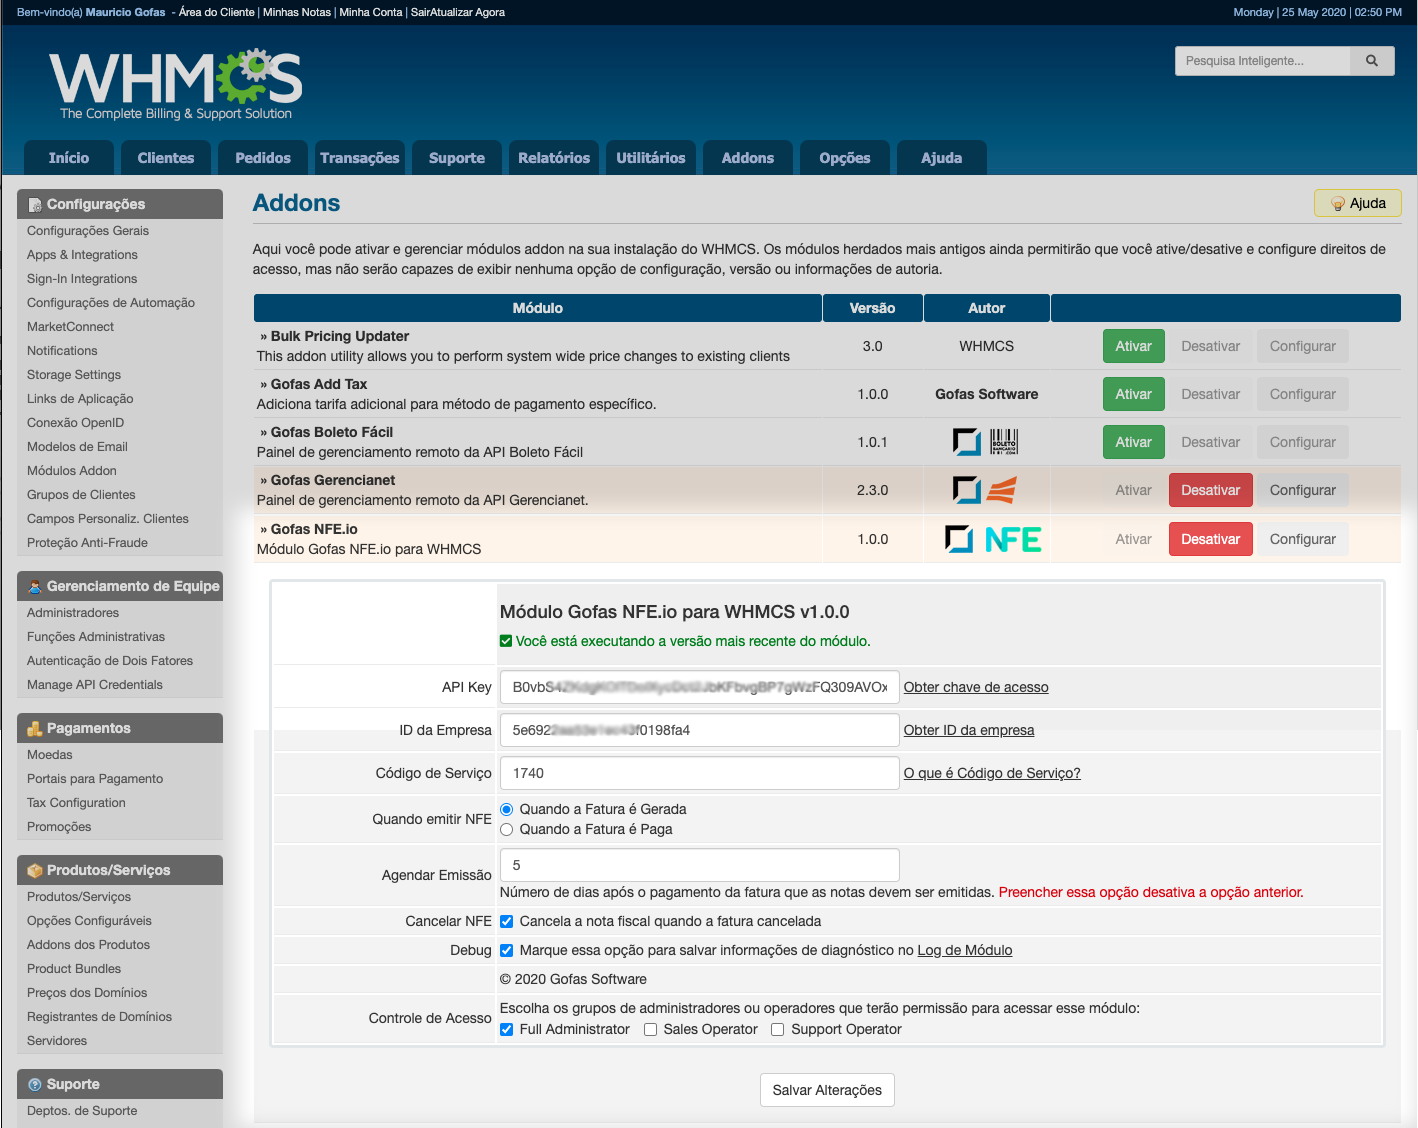
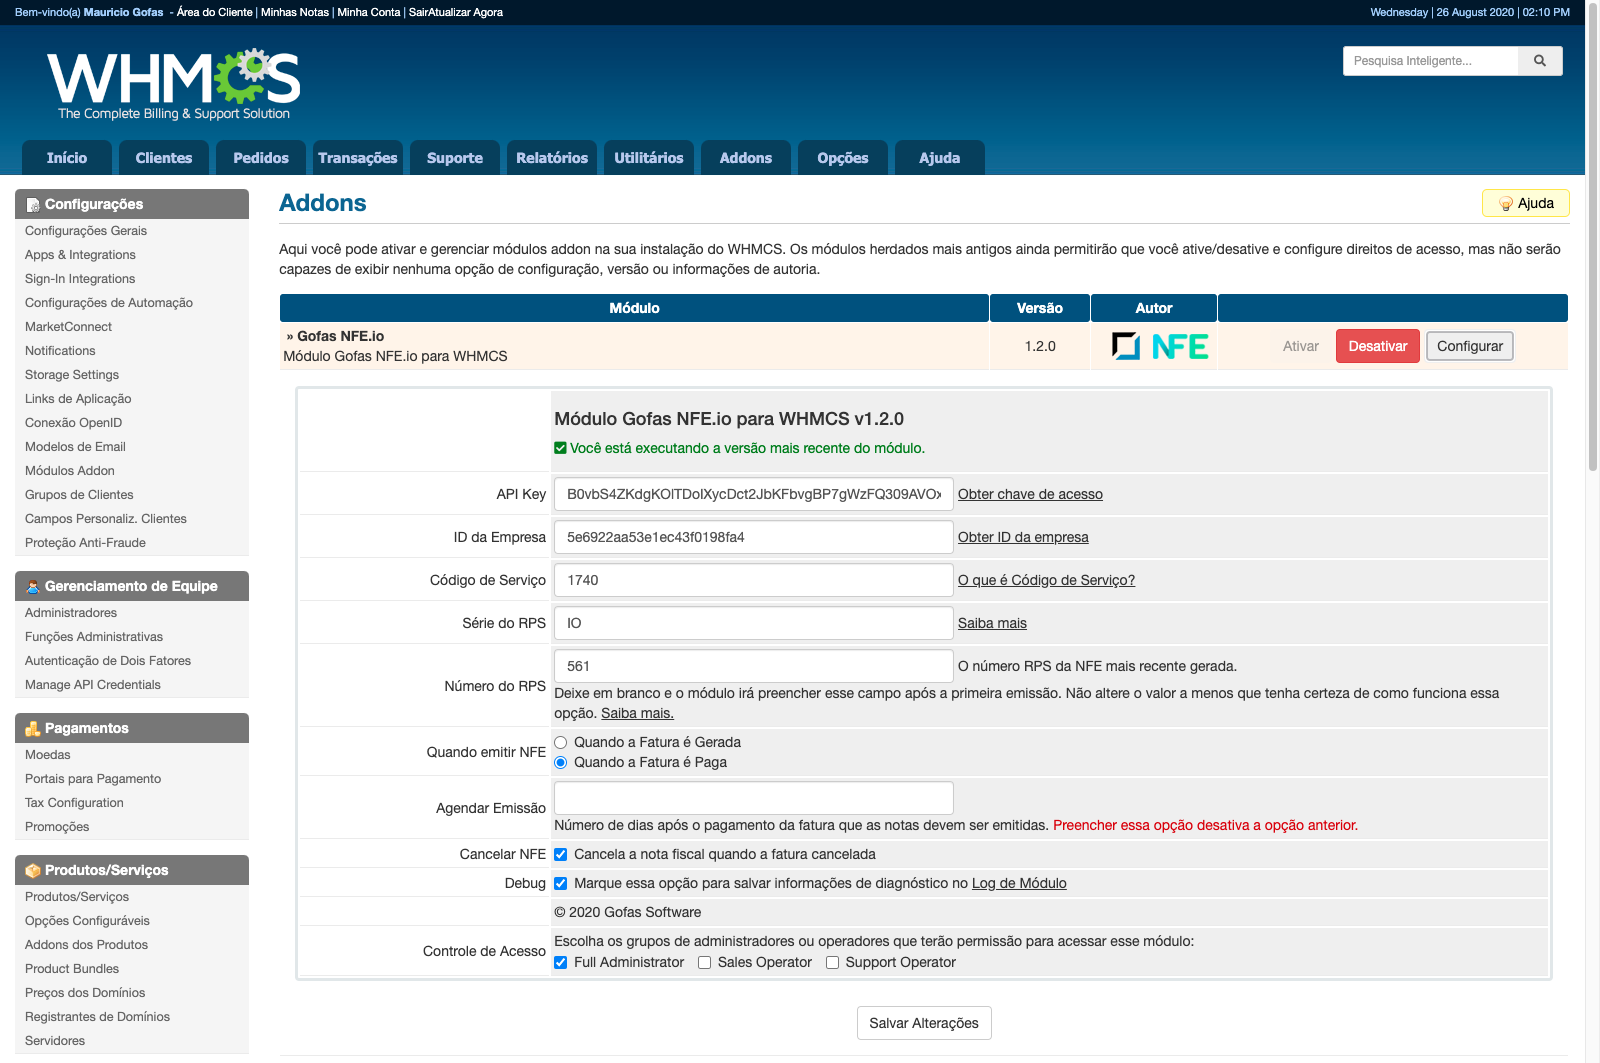
v1.2.0
Atualização v1.1.3 > v1.2.0.

diff --git a/modules/addons/gofasnfeio/config.php b/modules/addons/gofasnfeio/config.php
@@ -6,13 +6,13 @@
  * @copyright	2020 https://gofas.net
  * @license		https://gofas.net?p=
  * @support		https://gofas.net/?p=12313
- * @version		1.1.3
+ * @version		1.2.0
  */
 if (!defined("WHMCS")){die();}
 use WHMCS\Database\Capsule;
 if( !function_exists('gofasnfeio_config') ) {
 function gofasnfeio_config() {
-	$module_version = '1.1.3';
+	$module_version = '1.2.0';
 	$module_version_int = (int)preg_replace('/[^0-9]/', '', $module_version);
 	
 	// Get Config
@@ -137,7 +137,7 @@ function gofasnfeio_config() {
 				}
 			}
 			
-			// Added in v1dot1dot3 
+			// Added in v 1 dot 1 dot 3 
 			if(!Capsule::schema()->hasColumn('gofasnfeio', 'rpsNumber')){
 				try {
  					Capsule::schema()->table('gofasnfeio', function($table){$table->string('rpsNumber');});
@@ -176,13 +176,24 @@ function gofasnfeio_config() {
 				'Type' => 'text',
 				'Description' => '<a style="text-decoration:underline;" href="https://nfe.io/docs/nota-fiscal-servico/conceitos-nfs-e/#o-que-e-codigo-de-servico" target="_blank">O que é Código de Serviço?</a>',
 	));
+	$rps_serial_number = array('rps_serial_number' => array(
+				'FriendlyName' => 'Série do RPS',
+				'Type' => 'text',
+				'Default' => 'IO',
+				'Description' => '<a style="text-decoration:underline;" href="https://nfe.io/docs/nota-fiscal-servico/conceitos-nfs-e/" target="_blank">Saiba mais</a>',
+	));
+	$rps_number = array('rps_number' => array(
+				'FriendlyName' => 'Número do RPS',
+				'Type' => 'text',
+				'Default' => 'zero',
+				'Description' => 'O número RPS da NFE mais recente gerada.<br>Deixe em branco e o módulo irá preencher esse campo após a primeira emissão. Não altere o valor a menos que tenha certeza de como funciona essa opção. <a style="text-decoration:underline;" href="https://nfe.io/docs/nota-fiscal-servico/conceitos-nfs-e/" target="_blank">Saiba mais.</a>',
+	));
 
 	$issue_note = array('issue_note' => array(
 				'FriendlyName' => 'Quando emitir NFE',
 				'Type' => 'radio',
                 'Options' => 'Quando a Fatura é Gerada,Quando a Fatura é Paga',
                 'Default' => 'Quando a Fatura é Paga',
-                //'Description' => 'Escolha o momento em que as nots fiscais serão geradas.',
 	));
 	$issue_note_after = array('issue_note_after' => array(
 				'FriendlyName' => 'Agendar Emissão',
@@ -206,7 +217,7 @@ function gofasnfeio_config() {
 				'FriendlyName' => '',
 				'Description' => '&copy; '.date('Y').' <a target="_blank" title="↗ Gofas Software" href="https://gofas.net">Gofas Software</a>',
 	));
-	$fields = array_merge($intro,$api_key,$company_id,$service_code,$issue_note,$issue_note_after,$cancel_invoice_cancel_nfe,$debug,$footer);
+	$fields = array_merge($intro,$api_key,$company_id,$service_code,$rps_serial_number,$rps_number,$issue_note,$issue_note_after,$cancel_invoice_cancel_nfe,$debug,$footer);
     $configarray = array(
     "name" => "Gofas NFE.io",
     "description" => "Módulo Gofas NFE.io para WHMCS",

diff --git a/modules/addons/gofasnfeio/hooks/aftercronjob.php b/modules/addons/gofasnfeio/hooks/aftercronjob.php
@@ -6,7 +6,7 @@
  * @copyright	2020 https://gofas.net
  * @license		https://gofas.net?p=9340
  * @support		https://gofas.net/?p=12313
- * @version		1.1.3
+ * @version		1.2.0
  */
 if (!defined("WHMCS")){die();}
 use WHMCS\Database\Capsule;
@@ -22,8 +22,28 @@ foreach( Capsule::table('gofasnfeio')->orderBy('id', 'desc')->where('status', '=
 		}
 		$customer = gnfe_customer($invoices->userid,$client);
 		$gnfe_get_nfes = gnfe_get_nfes();
-		$rps_serial_number = $gnfe_get_nfes['serviceInvoices']['0']['rpsSerialNumber'];
-		$rps_number = $gnfe_get_nfes['serviceInvoices']['0']['rpsNumber'];
+		if( $params['rps_serial_number'] ){
+			$rps_serial_number = $params['rps_serial_number'];
+			$rps_serial_number_ = 'IO';
+		}
+		elseif (!$params['rps_serial_number'] and $gnfe_get_nfes['serviceInvoices']['0']['rpsSerialNumber']){
+			$rps_serial_number = $gnfe_get_nfes['serviceInvoices']['0']['rpsSerialNumber'];
+			$rps_serial_number_ = $rps_serial_number;
+		}
+		elseif (!$params['rps_serial_number'] and !$gnfe_get_nfes['serviceInvoices']['0']['rpsSerialNumber']){
+			$rps_serial_number = 'IO';
+			$rps_serial_number_ = $rps_serial_number;
+		}
+		///
+		if($params['rps_number'] and (string)$params['rps_number'] !== (string)'zero'){
+			$rps_number = $params['rps_number'];
+		}
+		elseif((!$params['rps_number'] or (string)$params['rps_number'] === (string)'zero' ) and $gnfe_get_nfes['serviceInvoices']['0']['rpsNumber']){
+			$rps_number = $gnfe_get_nfes['serviceInvoices']['0']['rpsNumber'];
+		}
+		elseif(((string)$params['rps_number'] === (string)'zero' and !$gnfe_get_nfes['serviceInvoices']['0']['rpsNumber']) or (!$params['rps_number'] and !$gnfe_get_nfes['serviceInvoices']['0']['rpsNumber'])){
+			$rps_number = 0;
+		}
 		$postfields = array(
 			'cityServiceCode' => $params['service_code'],
 			'description'     => substr( implode("\n",$line_items),  0, 600),
@@ -53,11 +73,14 @@ foreach( Capsule::table('gofasnfeio')->orderBy('id', 'desc')->where('status', '=
 			if($nfe->message) {
 				$error .= $nfe->message;				
 			}
-				
 			if(!$nfe->message) {
 				$gnfe_update_nfe = gnfe_update_nfe($nfe,$invoices->userid,$invoices->id,'n/a',date("Y-m-d H:i:s"),date("Y-m-d H:i:s"));
 				if($gnfe_update_nfe and $gnfe_update_nfe !== 'success') {
 					$error = $gnfe_update_nfe;
+				}
+				$update_rps = gnfe_update_rps($rps_serial_number_, $rps_number);
+				if($update_rps and $update_rps !== 'success') {
+					$error = $update_rps;
 				}
 			}
 		}

diff --git a/modules/addons/gofasnfeio/callback.php b/modules/addons/gofasnfeio/callback.php
@@ -6,7 +6,7 @@
  * @copyright	2020 https://gofas.net
  * @license		https://gofas.net?p=9340
  * @support		https://gofas.net/?p=12313
- * @version		1.1.3
+ * @version		1.2.0
  */
 require_once __DIR__ . '/../../../init.php';
 use WHMCS\Database\Capsule;
@@ -54,8 +54,28 @@ if($post){
 		}
 		$customer = gnfe_customer($invoices->userid,$client);
 		$gnfe_get_nfes = gnfe_get_nfes();
-		$rps_serial_number = $gnfe_get_nfes['serviceInvoices']['0']['rpsSerialNumber'];
-		$rps_number = $gnfe_get_nfes['serviceInvoices']['0']['rpsNumber'];
+		if( $params['rps_serial_number'] ){
+			$rps_serial_number = $params['rps_serial_number'];
+			$rps_serial_number_ = 'IO';
+		}
+		elseif (!$params['rps_serial_number'] and $gnfe_get_nfes['serviceInvoices']['0']['rpsSerialNumber']){
+			$rps_serial_number = $gnfe_get_nfes['serviceInvoices']['0']['rpsSerialNumber'];
+			$rps_serial_number_ = $rps_serial_number;
+		}
+		elseif (!$params['rps_serial_number'] and !$gnfe_get_nfes['serviceInvoices']['0']['rpsSerialNumber']){
+			$rps_serial_number = 'IO';
+			$rps_serial_number_ = $rps_serial_number;
+		}
+		///
+		if($params['rps_number'] and (string)$params['rps_number'] !== (string)'zero'){
+			$rps_number = $params['rps_number'];
+		}
+		elseif((!$params['rps_number'] or (string)$params['rps_number'] === (string)'zero' ) and $gnfe_get_nfes['serviceInvoices']['0']['rpsNumber']){
+			$rps_number = $gnfe_get_nfes['serviceInvoices']['0']['rpsNumber'];
+		}
+		elseif(((string)$params['rps_number'] === (string)'zero' and !$gnfe_get_nfes['serviceInvoices']['0']['rpsNumber']) or (!$params['rps_number'] and !$gnfe_get_nfes['serviceInvoices']['0']['rpsNumber'])){
+			$rps_number = 0;
+		}
 		$postfields = array(
 			'cityServiceCode' => $params['service_code'],
 			'description'     => substr( implode("\n",$line_items),  0, 600),
@@ -85,11 +105,14 @@ if($post){
 			if($nfe->message) {
 				$error .= $nfe->message;				
 			}
-				
 			if(!$nfe->message) {
 				$gnfe_update_nfe = gnfe_update_nfe($nfe,$invoices->userid,$invoices->id,'n/a',date("Y-m-d H:i:s"),date("Y-m-d H:i:s"));
 				if($gnfe_update_nfe and $gnfe_update_nfe !== 'success') {
 					$error = $gnfe_update_nfe;
+				}
+				$update_rps = gnfe_update_rps($rps_serial_number_, $rps_number);
+				if($update_rps and $update_rps !== 'success') {
+					$error = $update_rps;
 				}
 			}
 		}

diff --git a/modules/addons/gofasnfeio/functions.php b/modules/addons/gofasnfeio/functions.php
@@ -6,7 +6,7 @@
  * @copyright	2020 https://gofas.net
  * @license		https://gofas.net?p=9340
  * @support		https://gofas.net/?p=12313
- * @version		1.1.3
+ * @version		1.2.0
  */
 if (!defined("WHMCS")){die();}
 use WHMCS\Database\Capsule;
@@ -381,6 +381,24 @@ if( !function_exists('gnfe_update_nfe') ) {
 		return $e->getMessage();
 	}
 }}
+if( !function_exists('gnfe_update_rps') ) {
+	function gnfe_update_rps($rps_serial_number, $rps_number) {
+		$setting = array();
+		foreach( Capsule::table('tbladdonmodules') -> where( 'module', '=', 'gofasnfeio' ) -> get( array( 'setting', 'value') ) as $settings ) {
+			$setting[$settings->setting] = $settings->value;
+		}
+	try {
+		if($rps_serial_number !== $setting['rps_serial_number']){
+			$update_rps_serial_number = Capsule::table('tbladdonmodules')-> where( 'module', '=', 'gofasnfeio' )->where( 'setting', '=', 'rps_serial_number' )->update(array('value'=>$rps_serial_number));
+		}
+		$update_serial_number = Capsule::table('tbladdonmodules')-> where( 'module', '=', 'gofasnfeio' )->where( 'setting', '=', 'rps_number' )->update(array('value'=>$rps_number+1));
+		return 'success';
+	}
+	catch (\Exception $e) {
+		return $e->getMessage();
+	}
+}}
+
 if( !function_exists('gnfe_get_local_nfe') ) {
 	function gnfe_get_local_nfe($invoice_id, $values ) {
 		foreach( Capsule::table('gofasnfeio')->where('invoice_id', '=', $invoice_id)->get($values) as $key => $value ) {

diff --git a/modules/addons/gofasnfeio/gofasnfeio.php b/modules/addons/gofasnfeio/gofasnfeio.php
@@ -6,7 +6,7 @@
  * @copyright	2020 https://gofas.net
  * @license		https://gofas.net?p=9340
  * @support		https://gofas.net/?p=12313
- * @version		1.1.3
+ * @version		1.2.0
  */
 if (!defined("WHMCS")){die();}
 require_once __DIR__ . '/config.php';

diff --git a/modules/addons/gofasnfeio/hooks/admininvoicescontrolsoutput.php b/modules/addons/gofasnfeio/hooks/admininvoicescontrolsoutput.php
@@ -6,7 +6,7 @@
  * @copyright	2020 https://gofas.net
  * @license		https://gofas.net?p=9340
  * @support		https://gofas.net/?p=12313
- * @version		1.1.3
+ * @version		1.2.0
  */
 if (!defined("WHMCS")){die();}
 use WHMCS\Database\Capsule;

diff --git a/modules/addons/gofasnfeio/hooks/dailycronjob.php b/modules/addons/gofasnfeio/hooks/dailycronjob.php
@@ -6,7 +6,7 @@
  * @copyright	2020 https://gofas.net
  * @license		https://gofas.net?p=9340
  * @support		https://gofas.net/?p=12313
- * @version		1.1.3
+ * @version		1.2.0
  */
 if (!defined("WHMCS")){die();}
 use WHMCS\Database\Capsule;

diff --git a/modules/addons/gofasnfeio/hooks/invoicecreation.php b/modules/addons/gofasnfeio/hooks/invoicecreation.php
@@ -6,7 +6,7 @@
  * @copyright	2020 https://gofas.net
  * @license		https://gofas.net?p=9340
  * @support		https://gofas.net/?p=12313
- * @version		1.1.3
+ * @version		1.2.0
  */
 if (!defined("WHMCS")){die();}
 use WHMCS\Database\Capsule;

diff --git a/modules/addons/gofasnfeio/hooks/invoicecancelled.php b/modules/addons/gofasnfeio/hooks/invoicecancelled.php
@@ -6,7 +6,7 @@
  * @copyright	2020 https://gofas.net
  * @license		https://gofas.net?p=9340
  * @support		https://gofas.net/?p=12313
- * @version		1.1.3
+ * @version		1.2.0
  */
 if (!defined("WHMCS")){die();}
 $params = gnfe_config();

diff --git a/modules/addons/gofasnfeio/hooks/invoicepaid.php b/modules/addons/gofasnfeio/hooks/invoicepaid.php
@@ -6,7 +6,7 @@
  * @copyright	2020 https://gofas.net
  * @license		https://gofas.net?p=9340
  * @support		https://gofas.net/?p=12313
- * @version		1.1.3
+ * @version		1.2.0
  */
 if (!defined("WHMCS")){die();}
 $params = gnfe_config();

diff --git a/modules/addons/gofasnfeio/hooks.php b/modules/addons/gofasnfeio/hooks.php
@@ -6,7 +6,7 @@
  * @copyright	2020 https://gofas.net
  * @license		https://gofas.net?p=9340
  * @support		https://gofas.net/?p=12313
- * @version		1.1.3
+ * @version		1.2.0
  */
 if (!defined("WHMCS")){die();}
 

diff --git a/modules/addons/gofasnfeio/output.php b/modules/addons/gofasnfeio/output.php
@@ -6,7 +6,7 @@
  * @copyright	2020 https://gofas.net
  * @license		https://gofas.net?p=9340
  * @support		https://gofas.net/?p=12313
- * @version		1.1.3
+ * @version		1.2.0
  */
 
 use WHMCS\Database\Capsule;
